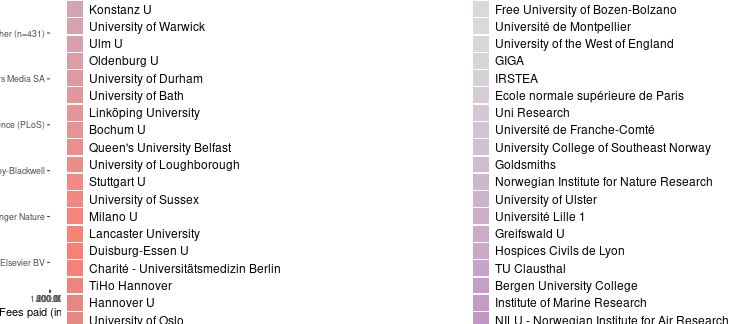
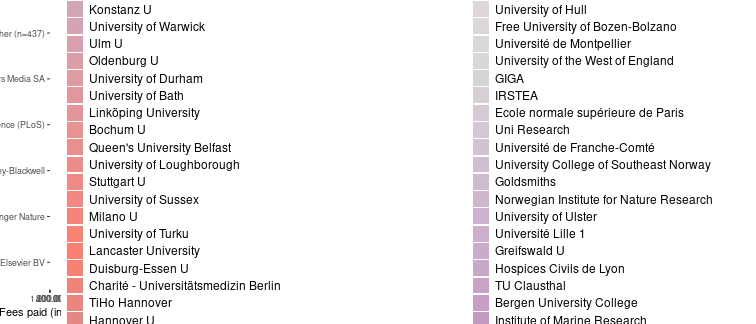
post: turku u joins openapc

diff --git a/about.md b/about.md
@@ -177,6 +177,7 @@ The data content covers APCs as paid for by our central budget for the Max Planc
 ## Institutions from Finland:
 
 - [University of Jyväskylä](https://openscience.jyu.fi/en/open-access-publishing)
+- [University of Turku](https://utuguides.fi/openaccess)
 
 ## Institutions from France
 
@@ -331,13 +332,13 @@ Jisc Collections released data on APC payments made by UK higher education insti
 
 Information on both open access journal articles and open access publication of articles in toll-access journals ("hybrid") are provided.
 
-In total,  163 067 833 € for  84 058 articles were paid by the participating unviversities. Average  fee is 1 939.9 € and the median 1 745 €.
+In total,  163 570 353 € for  84 317 articles were paid by the participating unviversities. Average  fee is 1 939.9 € and the median 1 745 €.
 
 ### Open Access Journals
 
 
 
-At the moment, the dataset releases information on 49 421 articles in open access journals which charge publication fees. Total expenditure amounts to  77 203 115 €. Average  fee is 1 562.2 € and the median 1 480 €.
+At the moment, the dataset releases information on 49 571 articles in open access journals which charge publication fees. Total expenditure amounts to  77 460 012 €. Average  fee is 1 562.6 € and the median 1 481 €.
 
 View dataset on [GitHub](https://github.com/OpenAPC/openapc-de/blob/master/data/apc_de.csv).
 
@@ -497,7 +498,7 @@ View dataset on [GitHub](https://github.com/OpenAPC/openapc-de/blob/master/data/
 |TU Chemnitz                                                          |       98|           113,365|         1,157|  1,249|
 |TU Clausthal                                                         |       12|            11,023|           919|    918|
 |TU Darmstadt                                                         |       35|            48,777|         1,394|  1,497|
-|TU Dresden                                                           |      548|           683,594|         1,247|  1,386|
+|TU Dresden                                                           |      548|           684,661|         1,249|  1,386|
 |TU Ilmenau                                                           |       55|            66,566|         1,210|  1,285|
 |TU Muenchen                                                          |    1,224|         1,663,430|         1,359|  1,479|
 |TU Wien                                                              |       45|            61,645|         1,370|  1,323|
@@ -579,6 +580,7 @@ View dataset on [GitHub](https://github.com/OpenAPC/openapc-de/blob/master/data/
 |University of Sussex                                                 |       96|           199,394|         2,077|  1,637|
 |University of the West of England                                    |        5|             4,902|           980|    926|
 |University of Tromsø - The Arctic University of Norway               |      179|           252,462|         1,410|  1,523|
+|University of Turku                                                  |      150|           255,830|         1,706|  1,615|
 |University of Ulster                                                 |        4|             4,012|         1,003|    919|
 |University of Warwick                                                |       74|           146,885|         1,985|  1,639|
 |University of York                                                   |      183|           322,592|         1,763|  1,559|
@@ -596,7 +598,7 @@ View dataset on [GitHub](https://github.com/OpenAPC/openapc-de/blob/master/data/
 
 
 In many toll-access journals some of the articles are open access after a fee has been paid. This model is often called "hybrid open access".
-The dataset covers 34 637 hybrid open access articles. Total expenditure amounts to  85 864 717 €. Average  fee is 2 479 € and the median 2 436 €.
+The dataset covers 34 746 hybrid open access articles. Total expenditure amounts to  86 110 341 €. Average  fee is 2 478.3 € and the median 2 436 €.
 
 The following institutions have contributed its expenditures for hybrid open access.
 
@@ -757,6 +759,7 @@ The following institutions have contributed its expenditures for hybrid open acc
 |University of Surrey                                                 |       62|           159,829|         2,578|  2,463|
 |University of Sussex                                                 |      169|           403,926|         2,390|  2,339|
 |University of the West of England                                    |       17|            45,132|         2,655|  2,744|
+|University of Turku                                                  |      109|           245,623|         2,253|  2,160|
 |University of Ulster                                                 |       13|            27,113|         2,086|  2,236|
 |University of Warwick                                                |      267|           679,743|         2,546|  2,574|
 |University of York                                                   |      325|           774,034|         2,382|  2,327|
@@ -840,7 +843,7 @@ For data enrichment, sample visualisations and explorations we build on the work
 
 ## Contributors
 
-Jens Harald Aasheim, Benjamin Ahlborn, Chelsea Ambler, Magdalena Andrae, Jochen Apel, Hans-Georg Becker, Roland Bertelmann, Daniel Beucke, Peter Blume, Ute Blumtritt, Sabine Boccalini, Stefanie Bollin, Kim Braun, Christoph Broschinski, Paolo Buoso, Cliff Buschhart, Dorothea Busjahn, Pablo de Castro, Roberto Cozatl, Amanda Cullin, Patrick Danowski, Gernot Deinzer, Julia Dickel, Andrea Dorner, Stefan Drößler, Karin Eckert, Carsten Elsner, Clemens Engelhardt, Katrin Falkenstein-Feldhoff, Inken Feldsien-Sudhaus, Silke Frank, Fabian Franke, Claudia Frick, Marléne Friedrich, Paola Galimberti, Agnes Geißelmann, Kai Karin Geschuhn, Steffi Grimm, Ute Grimmel-Holzwarth, Evgenia Grishina, Christian Gutknecht, Uli Hahn, Kristina Hanig, Margit L. Hartung, Dominik Hell, Ulrich Herb, Stephanie Herzog, Kathrin Höhner, Christie Hurrell, Arto Ikonen, Doris Jaeger, Najko Jahn, Alexandra Jobmann, Nadja Kalinna, Mirjam Kant, Andreas Kennecke, Robert Kiley, Ilka Kleinod, Lydia Koglin, Stephanie Kroiß, Gerrit Kuehle, Ignasi Labastida i Juan, Gerald Langhanke, Inga Larres, Stuart Lawson, Camilla Lindelöw, Kathrin Lucht-Roussel, Jan Lüth, Frank Lützenkirchen, Steffen Malo, Anna Marini, Manuel Moch, Anja Oberländer, Jere Odell, Linda Ohrtmann, Vitali Peil, Gabriele Pendorf, Dirk Pieper, Tobias Pohlmann, Thomas Porquet, Markus Putnings, Andrée Rathemacher, Edith Reschke, Katharina Rieck, Friedrich Riedel, Florian Ruckelshausen, Ilka Rudolf, Annette Scheiner, Michael Schlachter, Birgit Schlegel, Barbara Schmidt, Stefanie Seeh, Barbara Senkbeil-Stoffels, Adriana Sikora, Susanne Stemmler, Matti Stöhr, Eva Stopková, Kálmán Szőke, Linda Thomas, Johanna Tönsing, Marco Tullney,  Milan Vasiljevic, Astrid Vieler, Viola Voß, Roland Wagner, Marco Winkler, Sabine Witt, Michael Wohlgemuth, Philip Young, Philipp Zumstein
+Jens Harald Aasheim, Benjamin Ahlborn, Chelsea Ambler, Magdalena Andrae, Jochen Apel, Hans-Georg Becker, Roland Bertelmann, Daniel Beucke, Peter Blume, Ute Blumtritt, Sabine Boccalini, Stefanie Bollin, Kim Braun, Christoph Broschinski, Paolo Buoso, Cliff Buschhart, Dorothea Busjahn, Pablo de Castro, Roberto Cozatl, Amanda Cullin, Patrick Danowski, Gernot Deinzer, Julia Dickel, Andrea Dorner, Stefan Drößler, Karin Eckert, Carsten Elsner, Clemens Engelhardt, Katrin Falkenstein-Feldhoff, Inken Feldsien-Sudhaus, Silke Frank, Fabian Franke, Claudia Frick, Marléne Friedrich, Paola Galimberti, Agnes Geißelmann, Kai Karin Geschuhn, Steffi Grimm, Ute Grimmel-Holzwarth, Evgenia Grishina, Christian Gutknecht, Uli Hahn, Kristina Hanig, Margit L. Hartung, Dominik Hell, Ulrich Herb, Stephanie Herzog, Kathrin Höhner, Christie Hurrell, Arto Ikonen, Doris Jaeger, Najko Jahn, Alexandra Jobmann, Nadja Kalinna, Mirjam Kant, Andreas Kennecke, Robert Kiley, Ilka Kleinod, Lydia Koglin, Stephanie Kroiß, Gerrit Kuehle, Ignasi Labastida i Juan, Gerald Langhanke, Inga Larres, Stuart Lawson, Camilla Lindelöw, Kathrin Lucht-Roussel, Jan Lüth, Frank Lützenkirchen, Steffen Malo, Anna Marini, Manuel Moch, Anja Oberländer, Jere Odell, Linda Ohrtmann, Vitali Peil, Gabriele Pendorf, Mikko Pennanen, Dirk Pieper, Tobias Pohlmann, Thomas Porquet, Markus Putnings, Andrée Rathemacher, Edith Reschke, Katharina Rieck, Friedrich Riedel, Florian Ruckelshausen, Ilka Rudolf, Annette Scheiner, Michael Schlachter, Birgit Schlegel, Barbara Schmidt, Stefanie Seeh, Barbara Senkbeil-Stoffels, Adriana Sikora, Susanne Stemmler, Matti Stöhr, Eva Stopková, Kálmán Szőke, Linda Thomas, Johanna Tönsing, Marco Tullney,  Milan Vasiljevic, Astrid Vieler, Viola Voß, Roland Wagner, Marco Winkler, Sabine Witt, Michael Wohlgemuth, Philip Young, Philipp Zumstein
 
 ## Contact
 

diff --git a/_posts/2019-09-05-turku.md b/_posts/2019-09-05-turku.md
@@ -1,0 +1,91 @@
+---
+layout:     post
+author:     Christoph Broschinski
+author_lnk: https://github.com/cbroschinski
+title:      University of Turku joins OpenAPC
+date:       2019-09-05 10:00:00
+summary:    
+categories: [general, openAPC]
+comments: true
+---
+
+
+
+
+We welcome the [University of Turku](https://www.utu.fi/en) as new contributing institution!
+
+[Turku University Library](https://www.utu.fi/en/university/library) collects data on institutional APC expenditures and has provided an initial data set to OpenAPC.
+
+Contact Person is [Mikko Pennanen](mailto:mikko.pennanen@utu.fi).
+
+## Cost data
+
+
+
+The initial data set covers publication fees for 259 articles published from 2017 to 2019. Total expenditure amounts to 501 453€ and the average fee is 1 936€.
+
+
+|                                                              | Articles| Fees paid in EURO| Mean Fee paid|
+|:-------------------------------------------------------------|--------:|-----------------:|-------------:|
+|Springer Nature                                               |       60|            112255|          1871|
+|Wiley-Blackwell                                               |       40|            105042|          2626|
+|Elsevier BV                                                   |       34|             68786|          2023|
+|Informa UK Limited                                            |       16|             29417|          1839|
+|Public Library of Science (PLoS)                              |       13|             21445|          1650|
+|MDPI AG                                                       |       10|             12773|          1277|
+|Oxford University Press (OUP)                                 |       10|             22890|          2289|
+|Frontiers Media SA                                            |        5|              9239|          1848|
+|Impact Journals, LLC                                          |        5|             17010|          3402|
+|SAGE Publications                                             |        5|              2281|           456|
+|American Society for Microbiology                             |        4|              7950|          1988|
+|BioScientifica                                                |        4|             11941|          2985|
+|IOP Publishing                                                |        4|              6864|          1716|
+|Ovid Technologies (Wolters Kluwer Health)                     |        4|              8257|          2064|
+|FASEB                                                         |        3|              7070|          2357|
+|Japanese Society for Dental Materials and Devices             |        3|              1272|           424|
+|Royal Society of Chemistry (RSC)                              |        3|              5137|          1712|
+|Bern Open Publishing                                          |        2|              1030|           515|
+|Institute of Electrical & Electronics Engineers (IEEE)        |        2|              4599|          2299|
+|JMIR Publications Inc.                                        |        2|              4797|          2399|
+|Pensoft Publishers                                            |        2|              1198|           599|
+|Proceedings of the National Academy of Sciences               |        2|              4936|          2468|
+|Rockefeller University Press                                  |        2|              4136|          2068|
+|The Endocrine Society                                         |        2|              4958|          2479|
+|Advanced Institute of Convergence Information Technology      |        1|               452|           452|
+|American Association for Cancer Research (AACR)               |        1|              3907|          3907|
+|American Diabetes Association                                 |        1|              2004|          2004|
+|American Society for Biochemistry & Molecular Biology (ASBMB) |        1|               996|           996|
+|American Society for Cell Biology (ASCB)                      |        1|              2321|          2321|
+|American Society of Plant Biologists (ASPB)                   |        1|              2390|          2390|
+|BMJ                                                           |        1|              1587|          1587|
+|Cambridge University Press (CUP)                              |        1|               893|           893|
+|Copernicus GmbH                                               |        1|              2511|          2511|
+|EDP Sciences                                                  |        1|               800|           800|
+|European Journal of Science and Mathematics Education         |        1|               529|           529|
+|Hindawi Publishing Corporation                                |        1|              1112|          1112|
+|Innovative Journal                                            |        1|               131|           131|
+|International Association of Online Engineering (IAOE)        |        1|               360|           360|
+|Ivyspring International Publisher                             |        1|              1732|          1732|
+|Magnolia Press                                                |        1|                89|            89|
+|Mary Ann Liebert Inc                                          |        1|              1817|          1817|
+|Microbiology Society                                          |        1|               178|           178|
+|Open Access Text Pvt, Ltd.                                    |        1|               309|           309|
+|Partners in Digital Health                                    |        1|               772|           772|
+|Regional Euro-Asian Biological Invasions Centre Oy (REABIC)   |        1|               868|           868|
+|White Rose University Press                                   |        1|               410|           410|
+
+## Overview
+
+A detailed analysis of the contributed data provides the following overview:
+
+### Fees paid per publisher (in EURO)
+
+![plot of chunk tree_turku_2019_09_05_full](/figure/tree_turku_2019_09_05_full-1.png)
+
+###  Average costs per year (in EURO)
+
+![plot of chunk box_turku_2019_09_05_year_full](/figure/box_turku_2019_09_05_year_full-1.png)
+
+###  Average costs per publisher (in EURO)
+
+![plot of chunk box_turku_2019_09_05_publisher_full](/figure/box_turku_2019_09_05_publisher_full-1.png)
